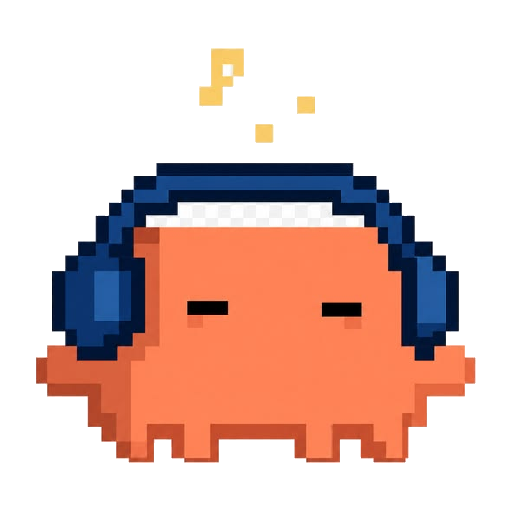
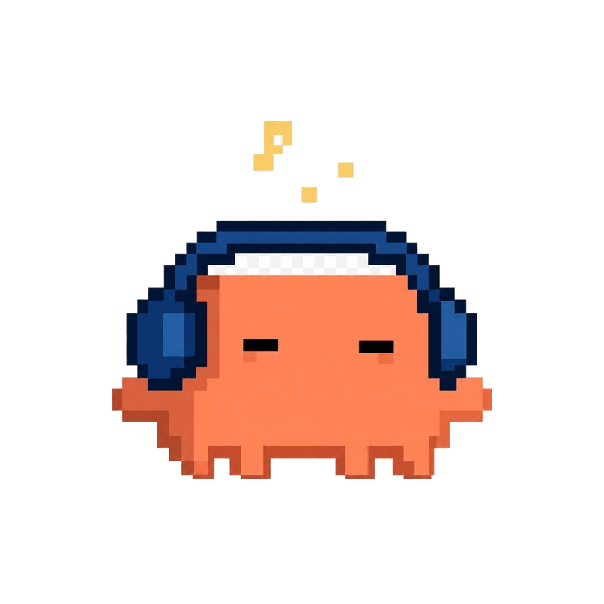
fix: rework mascot asset pipeline — per-sprite bg + uniform body sizing
- rocket: refill enclosed interior holes (its white body highlights read
  as background white and were flooded away)
- paragliding: strip enclosed pure-white background pockets between the
  parachute strings that border flood-fill can't reach
- Size every sprite by its creature body (largest orange connected
  component) to a common absolute height on a shared canvas, so all
  render at the same footprint regardless of props
- Regenerate all 10 mascot PNGs

Changed region(s): [[0.0625, 0.0938, 0.9375, 0.9062], [0.5625, 0.1875, 0.625, 0.2188]]

diff --git a/scripts/build-mascots.py b/scripts/build-mascots.py
@@ -1,0 +1,198 @@
+#!/usr/bin/env python3
+"""
+Mascot pipeline v2: per-sprite white removal + body-normalized sizing.
+
+Background removal (flood fill from the border) keeps interior whites, but two
+sprites need special handling:
+  - rocket: its body is near-pure-white and merges with the white bg, so it
+    uses a low tolerance to avoid the flood bridging into the body.
+  - paragliding: has ENCLOSED pure-white bg pockets between the strings that the
+    border flood can't reach, so it gets an extra "kill pure white" pass.
+
+Sizing: every sprite is scaled so its CREATURE BODY (largest orange connected
+component) has the same absolute height, then centred on a shared square canvas.
+Because the canvas is identical for all, a contain-fit render shows every body
+at the same size — regardless of how far props (pan, rocket, parachute) extend.
+
+Usage: python3 scripts/build-mascots.py <raw_dir> <out_dir>
+"""
+import sys
+from collections import deque
+from pathlib import Path
+from PIL import Image
+
+TARGET_BODY_H = 200  # absolute body height every sprite is scaled to
+MARGIN = 24
+
+# per-sprite background tolerance (default 10)
+TOL = {}
+# sprites whose enclosed pure-white pockets are BACKGROUND -> remove them
+KILL_PURE_WHITE = {"paragliding"}
+# sprites whose enclosed removed regions are interior HIGHLIGHTS -> refill white
+# (rocket's white body highlights read as bg-white and get flooded away)
+FILL_HOLES = {"rocket"}
+PURE = 250  # >= this on all channels counts as pure white
+
+
+def is_whiteish(px, tol):
+    r, g, b = px[0], px[1], px[2]
+    return (255 - r) <= tol and (255 - g) <= tol and (255 - b) <= tol
+
+
+def flood_clear(img, tol):
+    w, h = img.size
+    px = img.load()
+    bg = bytearray(w * h)
+    q = deque()
+
+    def consider(x, y):
+        if 0 <= x < w and 0 <= y < h and not bg[y * w + x] and is_whiteish(px[x, y], tol):
+            bg[y * w + x] = 1
+            q.append((x, y))
+
+    for x in range(w):
+        consider(x, 0)
+        consider(x, h - 1)
+    for y in range(h):
+        consider(0, y)
+        consider(w - 1, y)
+    while q:
+        x, y = q.popleft()
+        consider(x + 1, y)
+        consider(x - 1, y)
+        consider(x, y + 1)
+        consider(x, y - 1)
+
+    for y in range(h):
+        row = y * w
+        for x in range(w):
+            if bg[row + x]:
+                r, g, b, _ = px[x, y]
+                px[x, y] = (r, g, b, 0)
+
+
+def kill_pure_white(img):
+    px = img.load()
+    w, h = img.size
+    for y in range(h):
+        for x in range(w):
+            r, g, b, a = px[x, y]
+            if a and r >= PURE and g >= PURE and b >= PURE:
+                px[x, y] = (r, g, b, 0)
+
+
+def fill_enclosed_holes(img):
+    """Transparent pixels NOT reachable from the border are interior holes
+    (highlights wrongly keyed out) — refill them opaque white."""
+    w, h = img.size
+    px = img.load()
+    ext = bytearray(w * h)  # reachable-from-border transparency
+    q = deque()
+
+    def consider(x, y):
+        if 0 <= x < w and 0 <= y < h and not ext[y * w + x] and px[x, y][3] == 0:
+            ext[y * w + x] = 1
+            q.append((x, y))
+
+    for x in range(w):
+        consider(x, 0)
+        consider(x, h - 1)
+    for y in range(h):
+        consider(0, y)
+        consider(w - 1, y)
+    while q:
+        x, y = q.popleft()
+        consider(x + 1, y)
+        consider(x - 1, y)
+        consider(x, y + 1)
+        consider(x, y - 1)
+
+    filled = 0
+    for y in range(h):
+        row = y * w
+        for x in range(w):
+            if px[x, y][3] == 0 and not ext[row + x]:
+                px[x, y] = (255, 255, 255, 255)
+                filled += 1
+    return filled
+
+
+def is_orange(r, g, b):
+    return r > 150 and (r - b) > 55 and g > 45 and g < (r - 15)
+
+
+def body_bbox(img):
+    """Bounding box of the largest orange connected component (the creature)."""
+    small = img.convert("RGBA").resize((img.width // 3, img.height // 3))
+    px = small.load()
+    w, h = small.size
+    mask = bytearray(w * h)
+    for y in range(h):
+        for x in range(w):
+            r, g, b, a = px[x, y]
+            if a > 128 and is_orange(r, g, b):
+                mask[y * w + x] = 1
+    seen = bytearray(w * h)
+    best = None
+    bestn = 0
+    for sy in range(h):
+        for sx in range(w):
+            i = sy * w + sx
+            if mask[i] and not seen[i]:
+                q = deque([(sx, sy)])
+                seen[i] = 1
+                n = 0
+                x0 = x1 = sx
+                y0 = y1 = sy
+                while q:
+                    x, y = q.popleft()
+                    n += 1
+                    x0 = min(x0, x); x1 = max(x1, x); y0 = min(y0, y); y1 = max(y1, y)
+                    for dx, dy in ((1, 0), (-1, 0), (0, 1), (0, -1)):
+                        nx, ny = x + dx, y + dy
+                        if 0 <= nx < w and 0 <= ny < h and mask[ny * w + nx] and not seen[ny * w + nx]:
+                            seen[ny * w + nx] = 1
+                            q.append((nx, ny))
+                if n > bestn:
+                    bestn = n
+                    best = (x0 * 3, y0 * 3, x1 * 3, y1 * 3)
+    return best
+
+
+def main():
+    raw, out = Path(sys.argv[1]), Path(sys.argv[2])
+    out.mkdir(parents=True, exist_ok=True)
+    files = sorted(p for p in raw.iterdir() if p.suffix.lower() in {".png", ".jpg", ".jpeg", ".webp"})
+
+    # pass 1: bg-remove, measure body, compute per-sprite scale + scaled full size
+    prepared = []
+    max_dim = 0
+    for p in files:
+        im = Image.open(p).convert("RGBA")
+        flood_clear(im, TOL.get(p.stem, 10))
+        if p.stem in KILL_PURE_WHITE:
+            kill_pure_white(im)
+        if p.stem in FILL_HOLES:
+            fill_enclosed_holes(im)
+        bb = im.getbbox()
+        im = im.crop(bb)  # trim transparent margin
+        body = body_bbox(im)
+        bh = (body[3] - body[1]) if body else im.height
+        scale = TARGET_BODY_H / max(1, bh)
+        nw, nh = max(1, round(im.width * scale)), max(1, round(im.height * scale))
+        im = im.resize((nw, nh), Image.NEAREST)
+        prepared.append((p.stem, im))
+        max_dim = max(max_dim, nw, nh)
+
+    canvas = max_dim + 2 * MARGIN
+    # pass 2: center each on the shared canvas
+    for stem, im in prepared:
+        out_img = Image.new("RGBA", (canvas, canvas), (0, 0, 0, 0))
+        out_img.paste(im, ((canvas - im.width) // 2, (canvas - im.height) // 2), im)
+        out_img.save(out / f"{stem}.png", "PNG")
+        print(f"  {stem:14} body->{TARGET_BODY_H}  placed {im.width}x{im.height} on {canvas}")
+    print(f"done: {len(prepared)} sprites, canvas={canvas}")
+
+
+if __name__ == "__main__":
+    main()
